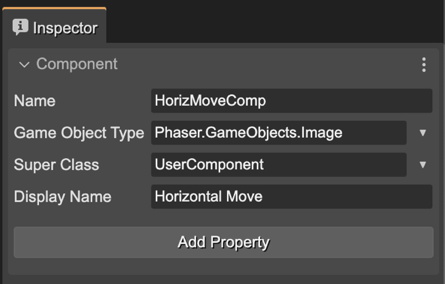
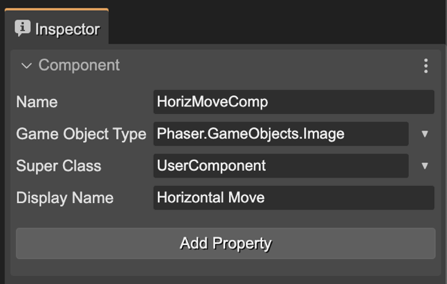
Adds user component display name.

diff --git a/scene-editor/user-components-editor-edit-component.rst b/scene-editor/user-components-editor-edit-component.rst
@@ -11,9 +11,9 @@ This is the component metadata you can edit:
 * The name of the component class.
 * The type of the game object (or entity). Next to the field, you can open a menu with common possible options.
 * The super-class of the component class. It is optional. Next to the field, you can open a menu with common possible options and names used in other components.
-* The display name of the component. This is the name used in different parts of the editor. It is optional and empty by default.
+* The display name of the component. This is the name used in different parts of the editor. It is optional and empty by default. When the **Display Name** is empty, the **Name** is used instead.
 
-.. image:: ../images/scene-editor-user-components-edit-props-20221101.webp
+.. image:: ../images/scene-editor-user-components-edit-props-20231205.webp
   :alt: Edit component info.
 
 The properties work the same as the `Prefab user properties <prefab-user-properties.html#creating-a-prefab-user-property>`_.
@@ -22,7 +22,7 @@ You can add new properties by pressing the **Add Property** button.
 
 The above image shows the **HorizontalMove** component. It has a game object type ``Phaser.GameObjects.Image``. It means you should add this component to that type of objects (entities). And the **horizVelocity**, **minX** and **minY** properties. 
 
-.. image:: .. image:: ../images/scene-editor-user-components-edit-props-20231205.webp
+.. image:: ../images/scene-editor-user-components-props-20221101.webp
   :alt: The component's properties.
 
 For editing the info of a property, select it in the editor and set the values in the Inspector view:
